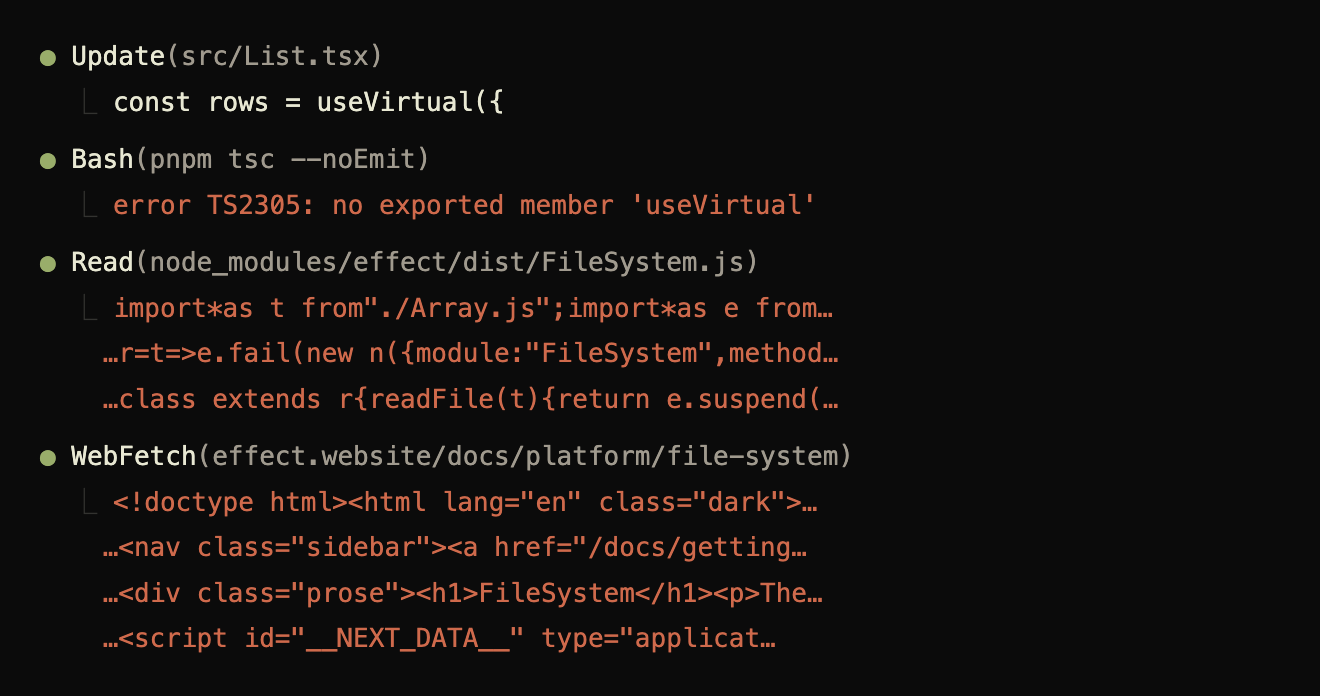
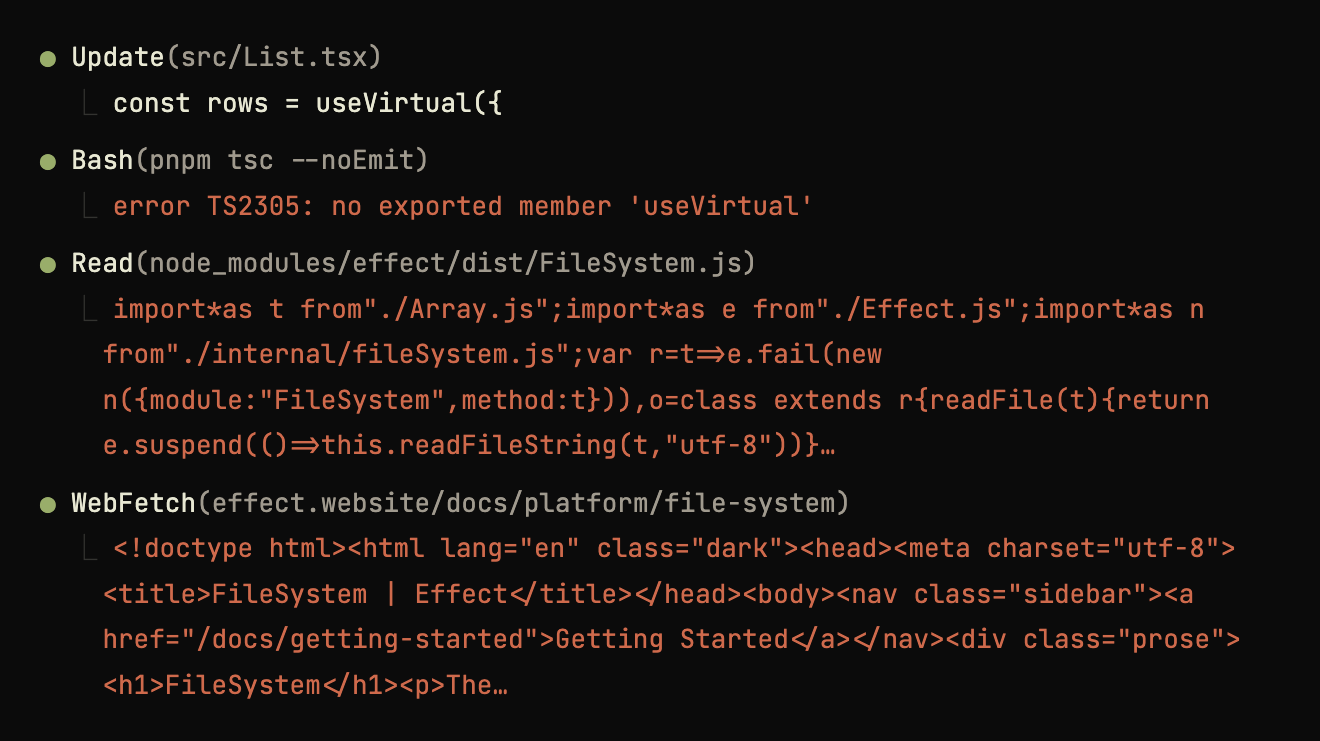
site: let the opaque lines run their length
A minified bundle is one enormous line and a fetched page is one enormous line, and the first screen had them chopped into column-width pieces with an ellipsis on both ends of each. That was one surface's narrow pane written into the source of all three: in an image with room to spare it reads as text cut for no reason, which is what it was.

The data carries the line now and each surface cuts it its own way. The pane keeps three wrapped lines and drops the rest, which is the wall it was always meant to look like, bounded so it cannot push the source beside it down the page. The images wrap the whole thing, with a continuation hanging under the text it continues rather than under the elbow.

Changed region(s): [[0.0311, 0.1207, 0.9318, 0.9353], [0.0311, 0.0603, 0.2795, 0.0905], [0.4038, 0.9052, 0.5902, 0.9353]]

diff --git a/site/code-samples.ts b/site/code-samples.ts
@@ -244,9 +244,13 @@ export const trees = {
  * line on the right is real, the README and `src/FileSystem.ts` of the effect
  * package at that tag, quoted verbatim. The bundle line on the left is the
  * pattern rather than the package: Effect's own published build keeps its
- * comments, and the row stands for the many that do not. A result line marked
- * `! ` went wrong and `+ ` went right; the markers are read off before the
- * line is painted. `[[name]]` anywhere in a transcript marks a name
+ * comments, and the row stands for the many that do not. Each of those two is
+ * one line, because that is what a minified bundle and a fetched page are: the
+ * elisions that used to chop them into column-width pieces were the narrow
+ * pane of one surface written into the source of all three, and an image of
+ * that reads as text cut for no reason. Every surface cuts them its own way
+ * now, and none of them cuts the data. A result line marked `! ` went wrong
+ * and `+ ` went right; the markers are read off before the line is painted. `[[name]]` anywhere in a transcript marks a name
  * the config or the tree beside it declares, so the eye can join the two.
  *
  * Paths are the readable form, not the literal one. The store keys a checkout
@@ -262,14 +266,9 @@ export const terminals = {
 * Bash(pnpm tsc --noEmit)
   ⎿ ! error TS2305: no exported member 'useVirtual'
 * Read(node_modules/effect/dist/FileSystem.js)
-  ⎿ ! import*as t from"./Array.js";import*as e from…
-    ! …r=t=>e.fail(new n({module:"FileSystem",method…
-    ! …class extends r{readFile(t){return e.suspend(…
+  ⎿ ! import*as t from"./Array.js";import*as e from"./Effect.js";import*as n from"./internal/fileSystem.js";var r=t=>e.fail(new n({module:"FileSystem",method:t})),o=class extends r{readFile(t){return e.suspend(()=>this.readFileString(t,"utf-8"))}…
 * WebFetch(effect.website/docs/platform/file-system)
-  ⎿ ! <!doctype html><html lang="en" class="dark">…
-    ! …<nav class="sidebar"><a href="/docs/getting…
-    ! …<div class="prose"><h1>FileSystem</h1><p>The…
-    ! …<script id="__NEXT_DATA__" type="applicat…`,
+  ⎿ ! <!doctype html><html lang="en" class="dark"><head><meta charset="utf-8"><title>FileSystem | Effect</title></head><body><nav class="sidebar"><a href="/docs/getting-started">Getting Started</a></nav><div class="prose"><h1>FileSystem</h1><p>The…`,
 
   after: `* Bash(agent-reference get effect)
   ⎿ effect@4.0.0-rc.111 -> ~/.agent-reference/src/effect@4.0.0-rc.111

diff --git a/site/hero.ts b/site/hero.ts
@@ -61,8 +61,12 @@ const page = (transcript: string, ground: string) => `<!doctype html>
        rather than stepping in and out with their longest line. */
     box-sizing: border-box; width: 1320px;
     font-family: 'JetBrains Mono', monospace; font-size: 26px; line-height: 1.75;
-    color: ${c.fg}; white-space: pre;
+    color: ${c.fg}; white-space: pre-wrap;
   }
+  /* A wrapped result hangs under the text it continues rather than under the
+     elbow, which is four columns wide and would otherwise read as a new line
+     of output. */
+  .result { padding-left: 4ch; text-indent: -4ch; }
   .call { margin-top: 12px; }
   .call:first-child { margin-top: 0; }
 </style></head>

diff --git a/site/src/styles.css b/site/src/styles.css
@@ -262,11 +262,15 @@ mark[data-ink="3"] {
   background: var(--color-term);
 }
 
-/* Opaque output is an excerpt; readable source keeps every line and wraps. */
+/* Opaque output is one enormous line, which is the whole complaint about it.
+   The pane keeps three of it and drops the rest: enough to read as the wall it
+   is, bounded so it cannot push the source beside it down the page. */
 .comparison-before .code-wrap > div:has(.text-bad) {
+  display: -webkit-box;
+  -webkit-box-orient: vertical;
+  -webkit-line-clamp: 3;
+  line-clamp: 3;
   overflow: hidden;
-  white-space: nowrap;
-  text-overflow: ellipsis;
 }
 
 .comparison-after {

diff --git a/site/public/index.md b/site/public/index.md
@@ -12,14 +12,9 @@ A CLI your agent uses to read the real source of your dependencies, at the versi
 * Bash(pnpm tsc --noEmit)
   ⎿ error TS2305: no exported member 'useVirtual'
 * Read(node_modules/effect/dist/FileSystem.js)
-  ⎿ import*as t from"./Array.js";import*as e from…
-    …r=t=>e.fail(new n({module:"FileSystem",method…
-    …class extends r{readFile(t){return e.suspend(…
+  ⎿ import*as t from"./Array.js";import*as e from"./Effect.js";import*as n from"./internal/fileSystem.js";var r=t=>e.fail(new n({module:"FileSystem",method:t})),o=class extends r{readFile(t){return e.suspend(()=>this.readFileString(t,"utf-8"))}…
 * WebFetch(effect.website/docs/platform/file-system)
-  ⎿ <!doctype html><html lang="en" class="dark">…
-    …<nav class="sidebar"><a href="/docs/getting…
-    …<div class="prose"><h1>FileSystem</h1><p>The…
-    …<script id="__NEXT_DATA__" type="applicat…
+  ⎿ <!doctype html><html lang="en" class="dark"><head><meta charset="utf-8"><title>FileSystem | Effect</title></head><body><nav class="sidebar"><a href="/docs/getting-started">Getting Started</a></nav><div class="prose"><h1>FileSystem</h1><p>The…
 ```
 
 ### Your agent, with the source
